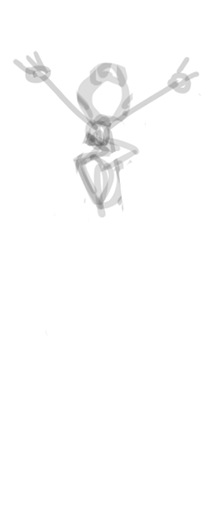
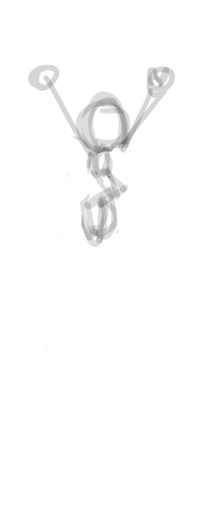
tweaking jump, still working on camera movement

Changed region(s): [[0.0545, 0.0888, 0.9, 0.503]]

diff --git a/src/main.cpp b/src/main.cpp
@@ -206,6 +206,7 @@ void PlayerMovementInput(GameState* gameState, float32 deltaTime, const GameInpu
         speed /= Lerp(gameState->playerJumpMag, 1.0f, 0.3f);
     }
 
+    gameState->playerVel.x = 0.0f;
 	if (IsKeyPressed(input, KM_KEY_A)) {
 		gameState->playerVel.x -= speed;
 		gameState->facingRight = false;
@@ -246,7 +247,6 @@ void PlayerMovementInput(GameState* gameState, float32 deltaTime, const GameInpu
 
 void UpdateTown(GameState* gameState, float32 deltaTime, const GameInput* input)
 {
-	gameState->playerVel.x = 0.0f;
 #if GAME_INTERNAL
 	if (!gameState->editor) {
 		PlayerMovementInput(gameState, deltaTime, input);
@@ -384,13 +384,12 @@ void UpdateTown(GameState* gameState, float32 deltaTime, const GameInput* input)
 #endif
 
     const float32 CAMERA_FOLLOW_LERP_MAG = 0.1f;
-    const float32 CAMERA_MIN_HEIGHT = -2.6f;
+    const float32 CAMERA_MIN_Y = -2.6f;
+    const float32 CAMERA_MAX_Y = 3.8f;
     gameState->cameraPos = Lerp(gameState->cameraPos, gameState->playerPos,
         CAMERA_FOLLOW_LERP_MAG);
 
-    if (gameState->cameraPos.y < CAMERA_MIN_HEIGHT) {
-        gameState->cameraPos.y = CAMERA_MIN_HEIGHT;
-    }
+    gameState->cameraPos.y = ClampFloat32(gameState->cameraPos.y, CAMERA_MIN_Y, CAMERA_MAX_Y);
 }
 
 void DrawTown(GameState* gameState, SpriteDataGL* spriteDataGL,
@@ -400,8 +399,8 @@ void DrawTown(GameState* gameState, SpriteDataGL* spriteDataGL,
 
     DrawObjectStatic(gameState->background, spriteDataGL);
 
-    DrawObjectStatic(gameState->tractor1, spriteDataGL);
-    DrawObjectStatic(gameState->tractor2, spriteDataGL);
+    //DrawObjectStatic(gameState->tractor1, spriteDataGL);
+    //DrawObjectStatic(gameState->tractor2, spriteDataGL);
 
 	{ // kid & me text
 		Vec2 anchor = { 0.5f, 0.1f };
@@ -741,7 +740,7 @@ extern "C" GAME_UPDATE_AND_RENDER_FUNC(GameUpdateAndRender)
 		gameState->grainTime = 0.0f;
 
 #if GAME_INTERNAL
-		gameState->debugView = true;
+		gameState->debugView = false;
 		gameState->editor = false;
 #endif
 

diff --git a/src/animation.cpp b/src/animation.cpp
@@ -59,6 +59,7 @@ Vec2 AnimatedSprite::Update(float32 deltaTime,
 				int* exitToFrame = activeAnim->frameExitTo[activeFrame].GetValue(nextAnimations[i]);
 				if (exitToFrame != nullptr) {
 					//Vec2 rootMotionPrev = activeAnim->frameRootMotion[activeFrame];
+                    animTransition = true;
 					activeAnimation = nextAnimations[i];
 					activeFrame = *exitToFrame;
 					activeFrameRepeat = 0;
